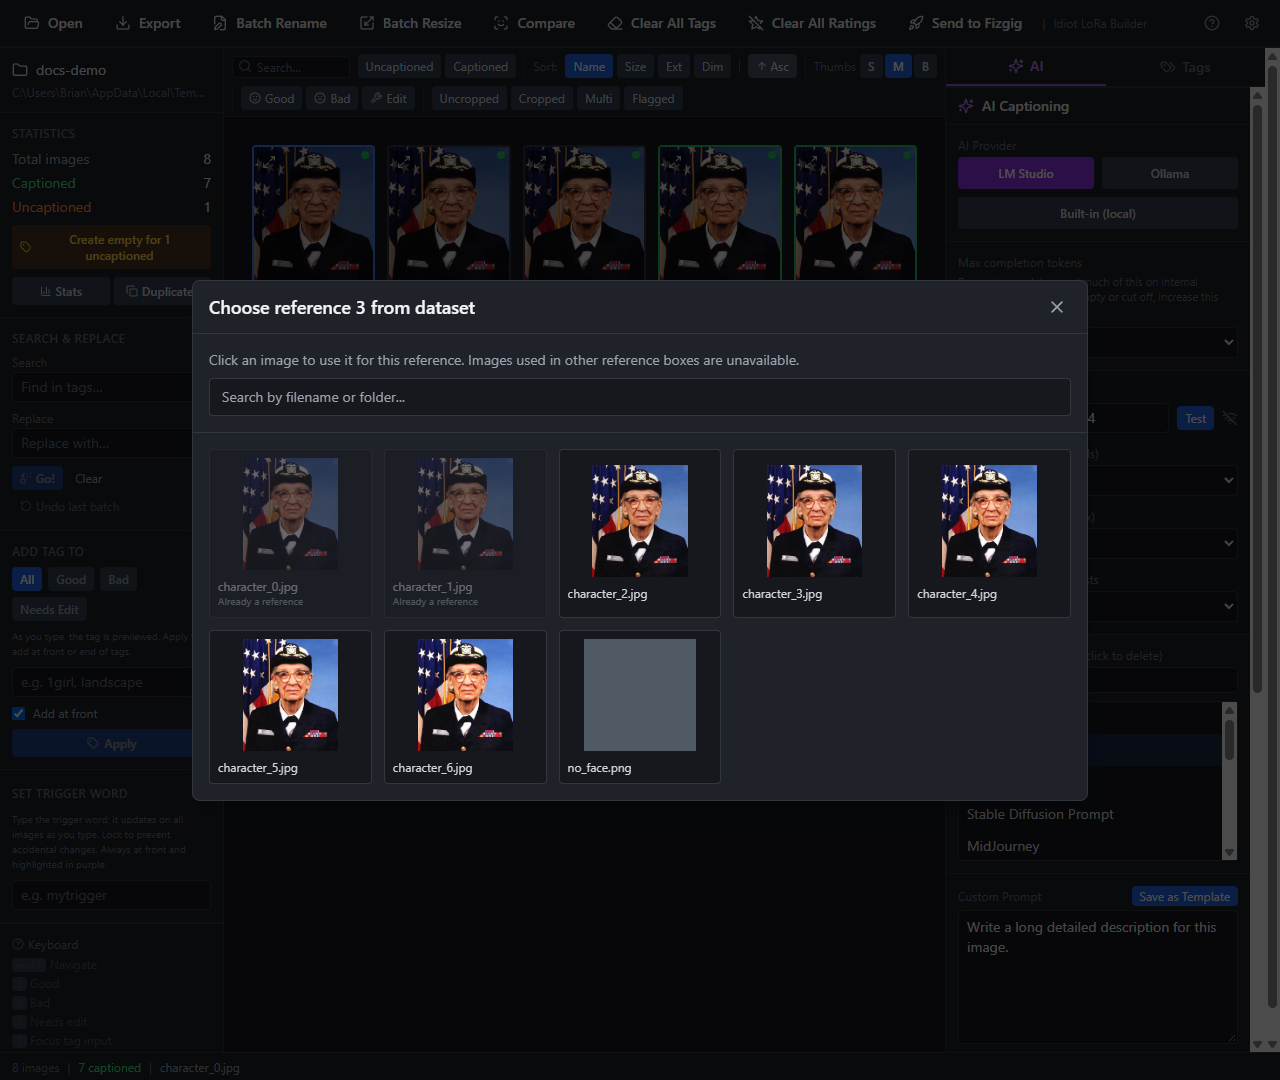
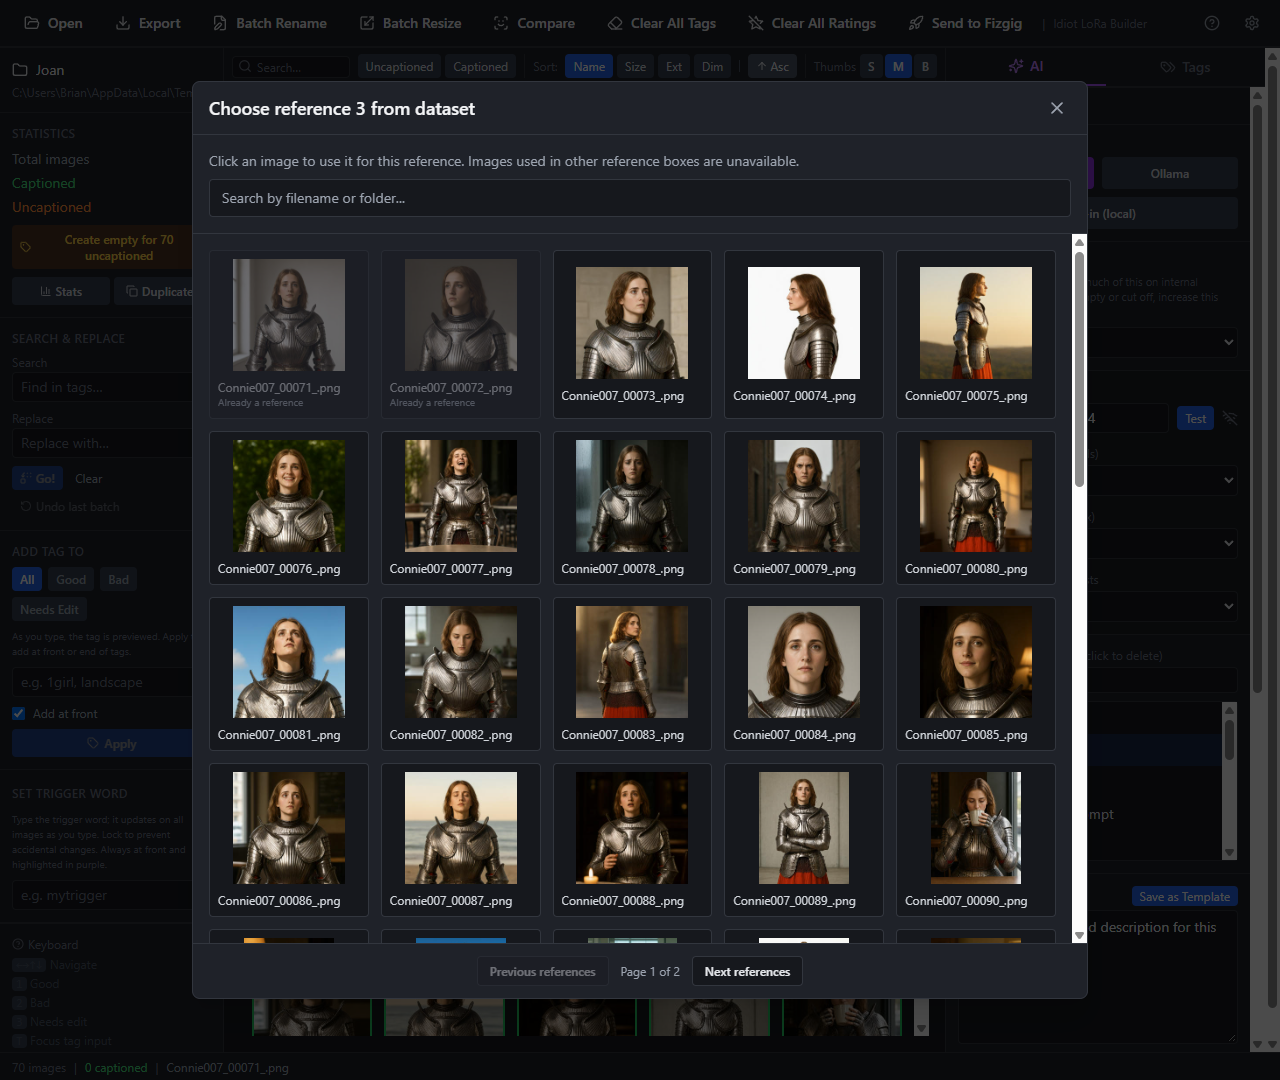
docs: illustrate Compare with the loaded Joan character set
Replace the demo portrait screenshots with the user's requested Joan set: dataset reference picker, reviewed consistency ratings and main-grid results. Capture against a temporary copy so the original images, ratings and open app stay unchanged. Remove the earlier portrait credit and identify the Joan walkthrough.

Verified a real 70-image scan and 64 saved ratings only in the temporary copy; visually checked all four screenshots, PNG dimensions and README image links.

diff --git a/docs/readme-compare-guide.md b/docs/readme-compare-guide.md
@@ -7,3 +7,8 @@ User requested new README image examples showing how to use the latest features.
 Document both external and loaded-dataset references, adjustable cutoffs, selection versus ratings, explicit apply-all/selected writes and overwriting existing ratings only for applied images. Clarify protected baselines and manual review for ambiguous/unscored results. Correct the README version badge to the existing 0.7.0 package version and the dialog-close instructions to the current X-button behavior.
 
 Verified all four README screenshots exist and are valid 1280x1080 PNGs; inspected them visually after waiting for thumbnails. Screenshots show the latest native app, including a real eight-image scan and four saved ratings. Checked all local README image references and `git diff --check`. No application code changed.
+
+## Joan set screenshots
+User corrected the screenshot choice: use the Joan set currently loaded in the app. Located the loaded folder through the app profile and copied its 70 image files to a disposable temporary Joan folder for screenshot capture. Leave the user's open app, originals and ratings unchanged. Use front/three-quarter/expression references from this actual character set. Replace all four demo screenshots and remove the Grace Hopper demo attribution.
+
+Verified the Joan copy scan: 70 images, 68 scored faces, 64 eligible ratings saved only in the temporary copy. Captured references, reviewed suggestions with two manual overrides, and main-grid ratings. Limited the screenshot-session caption preview to Good so its green highlight does not obscure Bad/Needs Edit borders. Original Joan folder still has no .lora-studio metadata, and the original app process remains open and responsive. All four screenshots were visually checked and all README image paths validated.

diff --git a/README.md b/README.md
@@ -168,7 +168,7 @@ Close Compare with **X**. The main grid immediately shows the same **Good / Bad 
 
 Scores measure face similarity, not certainty or overall image quality. Human faces work best; illustrated and nonhuman characters are experimental. No-face and multiple-face images require manual review.
 
-*Screenshot demo: brightness variants of a single public-domain Grace Hopper portrait illustrate the controls; they are not an example of a varied training set or a model-accuracy benchmark. Photo: James S. Davis / U.S. Navy, [source and public-domain information](https://commons.wikimedia.org/wiki/File:Grace_Hopper.jpg).*
+*Screenshots show the Joan character set. The displayed cutoffs and ratings illustrate a review workflow; choose boundaries that suit your own dataset.*
 
 ### Shortcuts
 
